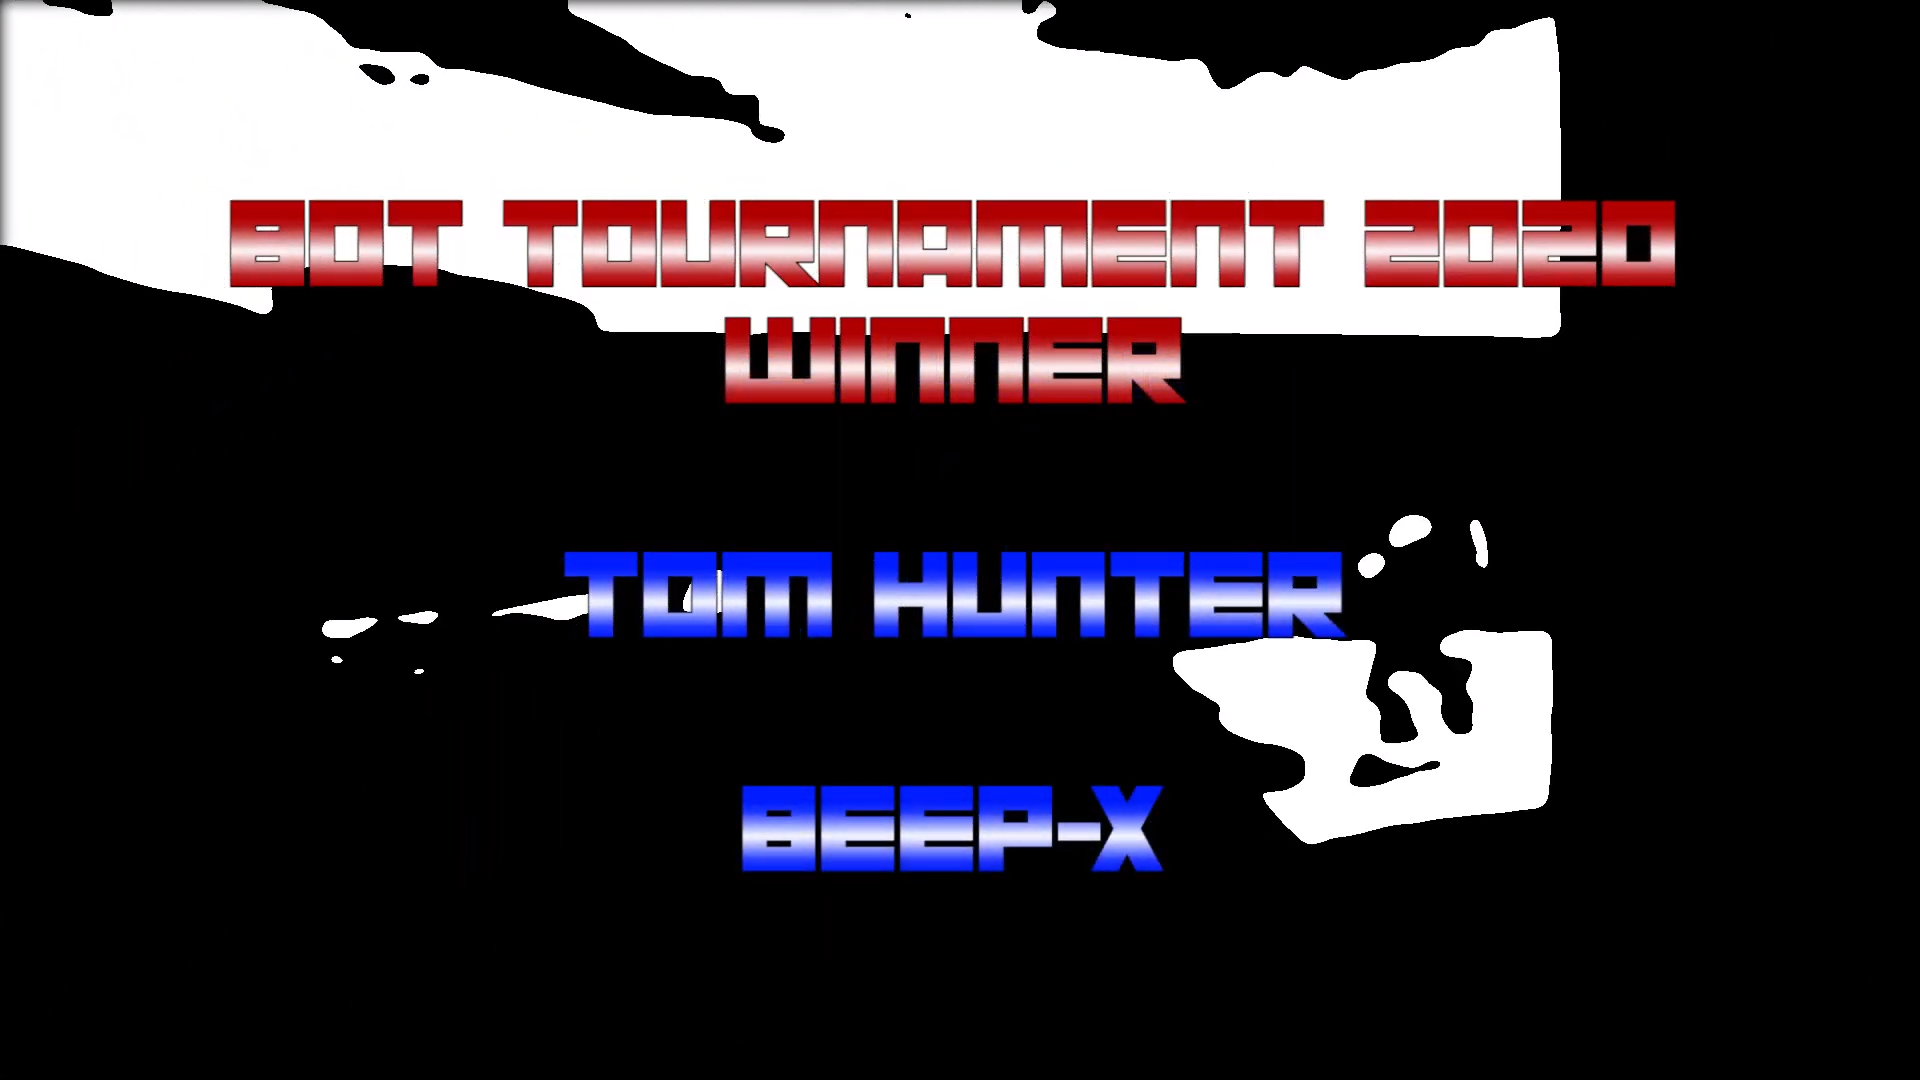
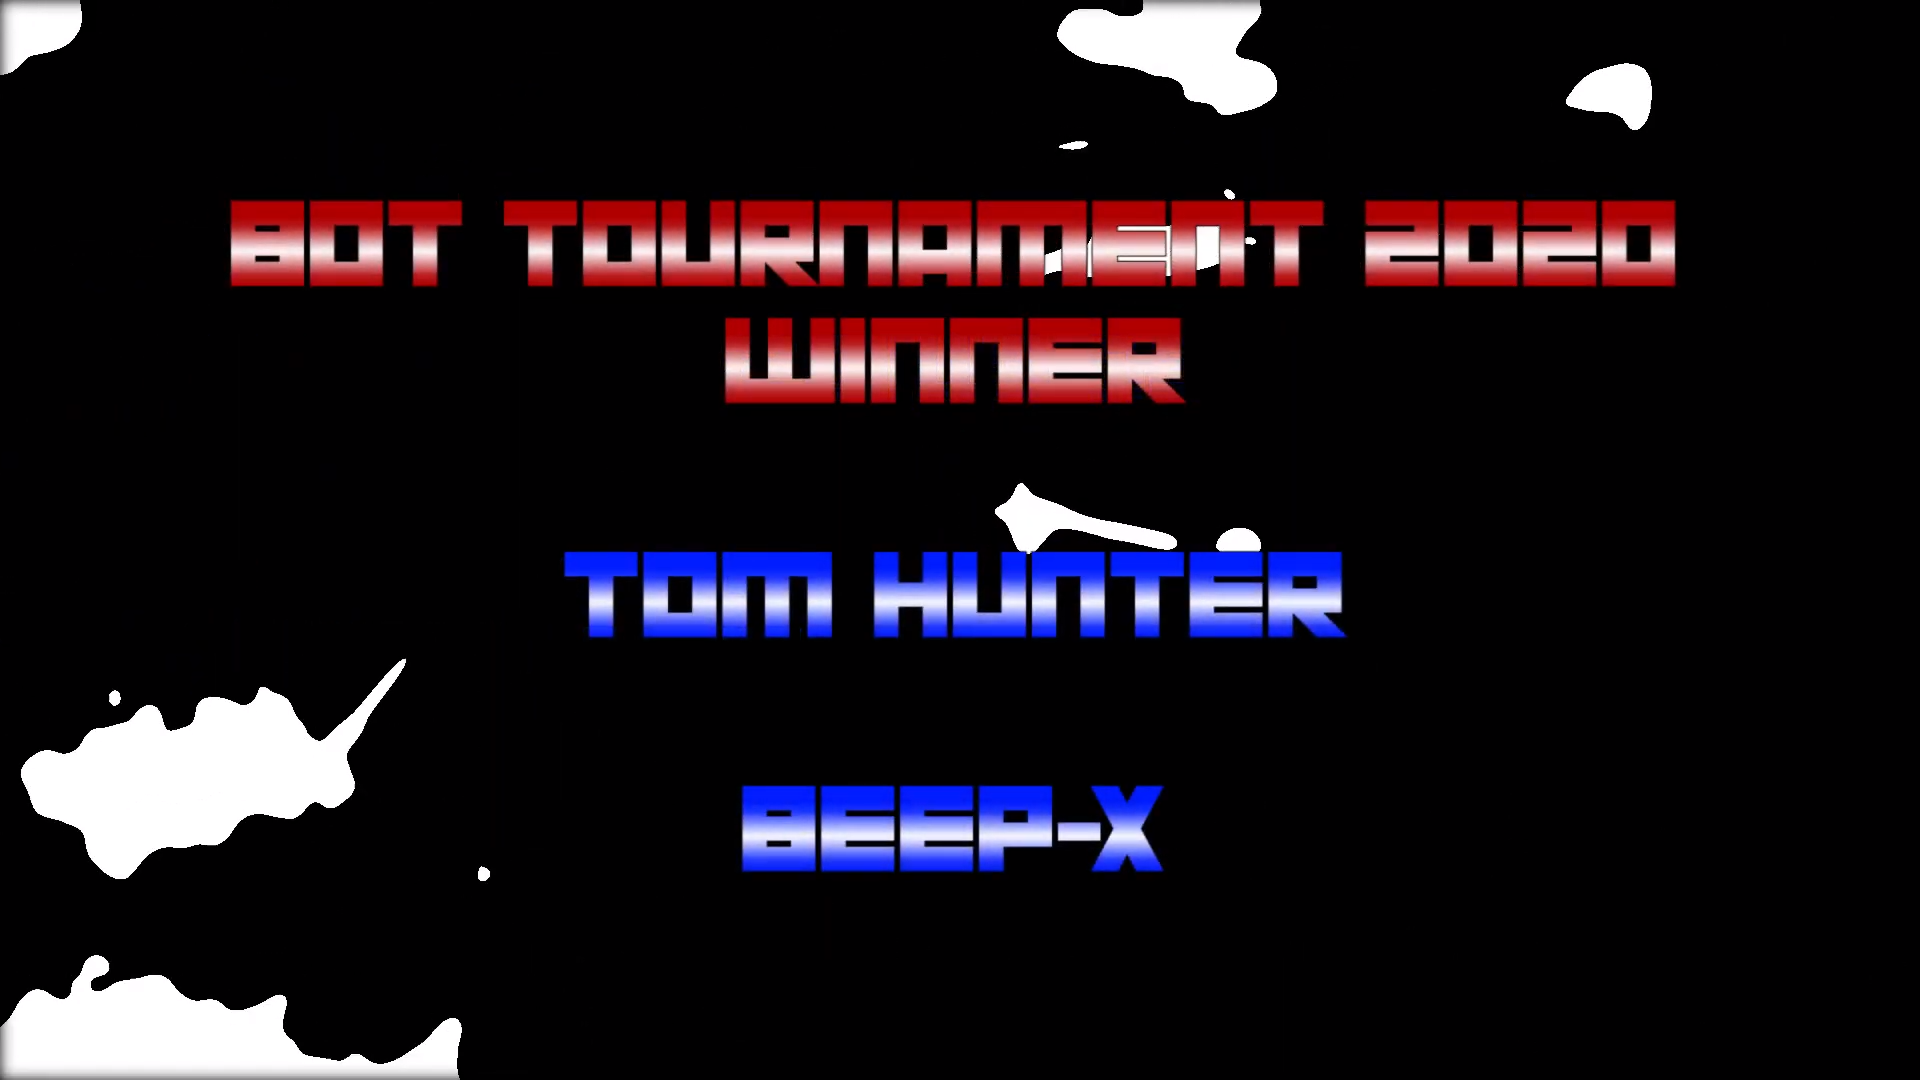
Updated bot sect

diff --git a/index.html b/index.html
@@ -221,18 +221,18 @@
     <div class="d-flex justify-content-center align-items-center flex-grow-1">
       <div class="text text-large d-flex flex-column justify-content-center align-items-center">
           <div class="image-table">
-              <img class="textimg" src="img/dummy.png" width="350px" height="200px">
-              <img class="textimg" src="img/dummy.png" width="200px" height="100px">
-              <img class="textimg" src="img/dummy.png" width="200px" height="100px">
+              <img class="textimg" src="img/bot-epic.png" width="400px" height="auto">
+              <img class="textimg" src="img/bot-main.png" width="300px" height="auto">
+              <img class="textimg" src="img/bot-win-screen.png" width="300px" height="auto">
           </div>
-          <div>
+          <div class="text">
             My "AI for Games" class of Semester 1 2020 ran a Mech AI tournament that I won.
             <br><br>
             This tournament involved using behaviour trees via PandaBT in Unity to run in-script behaviours programmed in C#. 
             We were only able to change the robot's decisions, not physical abilities. The Mech behaviours we created were then pitched against each other in a round-based tournament. Its livestream can be found <a href="https://www.youtube.com/watch?v=ir_fWFE7Hyw" target="_blank" class="text-lightblue text-center text-bold">here</a>.
             <br><br>
-            There were 24 participants from our class, and I made it from the semi-finals
-            to the finals, and then won the finals. My AI bot also beat the top 3 champions 
+            There were 24 participants from our class, and I made it to the semi-finals, then
+            to the finals, and won the finals. My AI bot also beat the top 3 champions 
             from 2019 in a bonus round.
             <br><br>
             <ul class="text-list text-list-inside">

diff --git a/style.css b/style.css
@@ -116,7 +116,7 @@ a {
 }
 
 .image-table {
-    width: 90%;
+    width: 100%;
 }
 
 .text-list {
@@ -470,7 +470,7 @@ body {
     }
     .text {
         width: 400px;
-        padding: 30px;
+        padding: 20px 0px 20px 0px;
     }
     .text-large {
         width: 400px;
